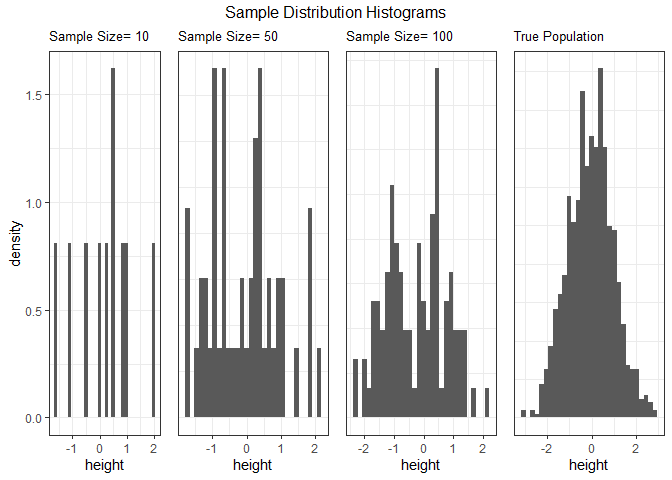
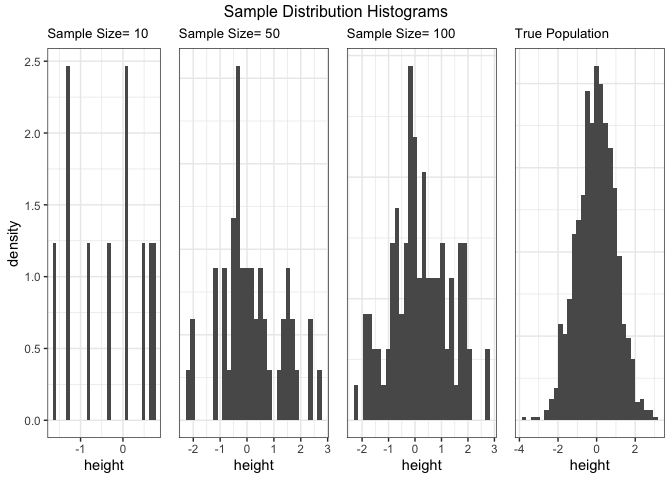
Updated the inputs and outputs of plot_sampling_dist function. Updated README with changes
1. Update  inputs and outputs of plot_sampling_dist function in the doc string
2. Updated the README to reflect the changes of inputs and outputs. Added example plots in the README

diff --git a/README.md b/README.md
@@ -63,9 +63,10 @@ devtools::install_github("UBC-MDS/samplingsimulatorr")
       - **Outputs**: returns a grid of sample distribution plots
   - `plot_sampling_dist` creates sampling distributions for different
     sample sizes.
-      - **Inputs** : population to sample from, the samples to plot, and
-        a vector of the sample sizes
-      - **Outputs**: returns a grid of sampling distribution plots
+      - **Inputs** : samples created by `draw_samples` function,
+        variable of interest, a vector of the sample sizes, and the
+        number of replication for each sample size
+      - **Outputs**: returns a list of sampling distribution plots
   - `stat_summary`: returns a summary of the statistical parameters of
     interest
       - **Inputs**: population, samples, parameter(s) of interest
@@ -156,12 +157,11 @@ plot_sample_hist(pop, samples, var_name, n_s)
 
 ``` r
 library(samplingsimulatorr)
-plot_sampling_hist(pop, samples, var_name, n_s)
+plot_sampling_hist(samples, var_name, n_s, reps)
 ```
 
 **Arguments:**
 
-  - `pop` the virtual population as a tibble
   - `samples` the samples as a tibble
   - `var_name` the name of the column for the variable that is being
     generated
@@ -173,7 +173,7 @@ plot_sampling_hist(pop, samples, var_name, n_s)
 
 **Example:**
 
-`plot_sample_hist(pop, samples, "height", c(1, 10), 3)`
+`plot_sample_hist(samples, "height", c(1, 10), 3)`
 
 #### `stat_summary`
 
@@ -201,30 +201,30 @@ library(samplingsimulatorr)
 pop <- generate_virtual_pop(1000, "height", rnorm, 0, 1)
 head(pop)
 #> # A tibble: 6 x 1
-#>   height
-#>    <dbl>
-#> 1  2.09 
-#> 2  1.50 
-#> 3 -1.68 
-#> 4 -0.169
-#> 5 -0.874
-#> 6 -0.612
+#>    height
+#>     <dbl>
+#> 1  1.28  
+#> 2 -0.308 
+#> 3  0.0520
+#> 4 -1.74  
+#> 5  0.635 
+#> 6  0.144
 ```
 
 ``` r
 # create samples
-samples <- draw_samples(pop, 3, c(1, 10, 50, 100))
+samples <- draw_samples(pop, 100, c(1, 10, 50, 100))
 head(samples)
 #> # A tibble: 6 x 4
-#> # Groups:   replicate [3]
+#> # Groups:   replicate [6]
 #>   replicate height  size rep_size
 #>       <int>  <dbl> <dbl>    <dbl>
-#> 1         1 -1.92      1        3
-#> 2         2 -0.868     1        3
-#> 3         3 -0.682     1        3
-#> 4         1  0.459    10        3
-#> 5         1  1.93     10        3
-#> 6         1 -1.65     10        3
+#> 1         1 -1.54      1      100
+#> 2         2 -0.864     1      100
+#> 3         3 -0.357     1      100
+#> 4         4  1.36      1      100
+#> 5         5 -0.626     1      100
+#> 6         6  2.09      1      100
 ```
 
 ``` r
@@ -237,3 +237,17 @@ plot_sample_hist(pop, samples, height, c(10, 50, 100))
 ```
 
 <img src="man/figures/README-unnamed-chunk-4-1.png" width="100%" />
+
+``` r
+plot_sampling_hist(samples, height, c(10, 50), 100)
+#> [[1]]
+#> `stat_bin()` using `bins = 30`. Pick better value with `binwidth`.
+```
+
+<img src="man/figures/README-unnamed-chunk-5-1.png" width="100%" />
+
+    #> 
+    #> [[2]]
+    #> `stat_bin()` using `bins = 30`. Pick better value with `binwidth`.
+
+<img src="man/figures/README-unnamed-chunk-5-2.png" width="100%" />
